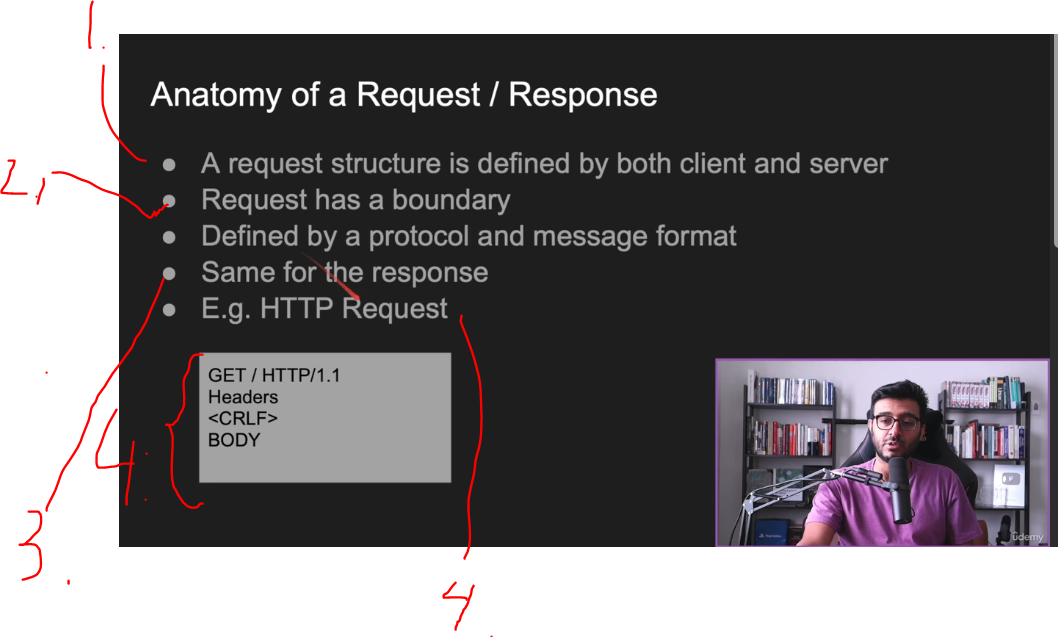
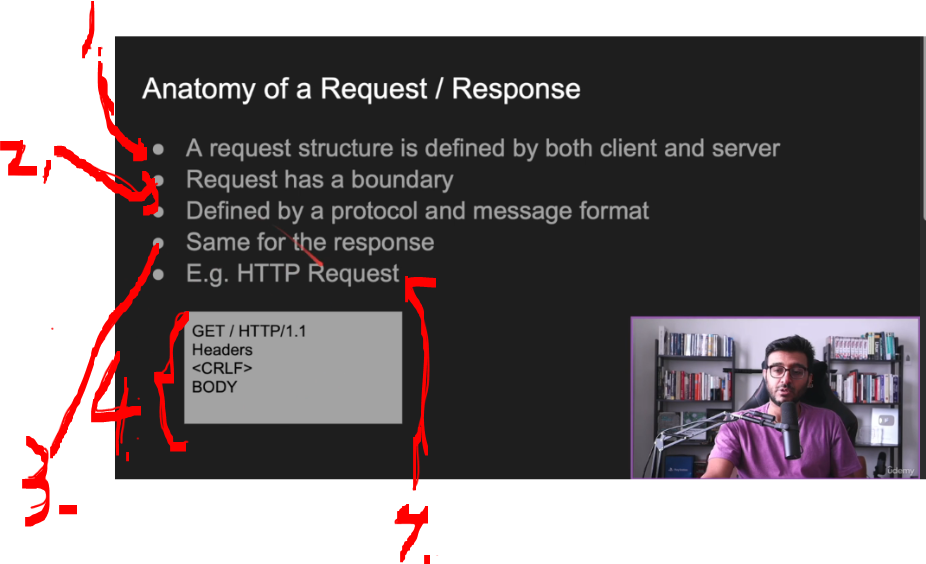
proceeded

Changed region(s): [[0.0, 0.0, 1.0, 0.9947], [0.4536, 0.9947, 0.4838, 1.0]]

diff --git a/Fundamentals of Backend Engineering/Section 02/README.md b/Fundamentals of Backend Engineering/Section 02/README.md
@@ -65,7 +65,7 @@ Backend Communication Design Patterns.
 1. We have to **agree** for the **request** and **response** format.
     - This has been already **agreed** by the **libraries**.
 2. Requests have boundaries.
-3. Example of the **message format** where **JSON** is parsed into to the **C++** **class object**!
+3. Example of the **message format** where **JSON** will be parsed into to the **C++** **class object**!
 4. **HTTP** request looks like such:
     ```XML
     Start Line
@@ -74,71 +74,104 @@ Backend Communication Design Patterns.
     Body
     ```
 
-- We have task to **build** upload image service!
+- Example we have task to **build** upload image service:
     
 > [!NOTE]
 > What would be the best **patter** to implement here?
 
 <div align="center">
-    <img alt="Backend course!" src="buildingUploadImageService.PNG" >
+    <img alt="Backend course!" src="Building_Upload_Image_Service.PNG" >
 </div>
-
 
 1. **Simplest** would be to use **request and response** pattern! 
     - Is to send **whole** file and send it to server.
-        - If the image will be ***big**.
+        - What if the image will be **big**.
 
 2. Other way is to make this image into **smaller parts**.
-    - Send **each** request, small chunk of the pic.
+    - Send **each** request, **small chunk** of the pic.
 
 - **Remember** this is still the same **request and response** style, but we can dictate this.
 
 <div align="center">
-    <img alt="Backend course!" src="doesNotWorkAnywhere.PNG" >
+    <img alt="Backend course!" src="Notification_It_Does_Not_Work_Anywhere.PNG" >
 </div>
 
-1. This style does not fit everywhere.
+1. This style does **not fit** everywhere!
     - Example in **Notification service**. I want to get notification when somebody just **logged in** or **uploaded video**
         - This is **not**, request and response.
             - Only backend knows, but not the client.
     - Example in **Chatting application**.
-        - Spamming the `did i get request`!
+        - Spamming the *did i get request?*
     - Example if the request is **very long**, there are better ways to deal with this.
 
 > [!IMPORTANT]  
-> All these can be solved by using some kind of design patter!
-
+> All kind of can be solved by using some kind of design patter!
 
 <div align="center">
-    <img alt="Backend course!" src="requestAndResponseHandshakes.PNG" >
+    <img alt="Backend course!" src="Request_And_Response_Handshakes.PNG" >
 </div>
 
 1. From sending of the **request** to the **response**.
+    - There is cost of processing!
 2. **Timeline**, so we can see how long it took for the **request** and **response**.
 3. There is **cost** for processing the response.
 
-- Example of the **curl** `curl -v --trace out.txt http://google.com`.
+> [!NOTE]  
+> **FLUSH**
+> To clear, empty, or force pending data/changes to be written or applied immediately!
+
+- Example of the **curl** `curl -v --trace out.txt http://google.com`. Example below:
+
+<div align="center">
+    <img alt="Backend course!" src="Curl_Processing.gif" >
+</div>
 
 # Synchronous vs Asynchronous workloads.  
 
 <div align="center">
-    <img alt="Backend course!" src="asynchronousOrsynchronous.PNG" width="500px" >
+    <img alt="Backend course!" src="Asynchronous_And_Arsynchronous_Intro.PNG" style="width:890px" >
 </div>
 
-- Async is the term is not in same wave length!
+- **Async** is the term is **not** in same wave length!
 
 <div align="center">
-    <img alt="Backend course!" src="SynchronoysIo.PNG" >
+    <img alt="Backend course!" src="Synchronous_IO.PNG" >
 </div>
 
-1. Once call is made, this gets block.
+1. The **traditional** way! Once call is made, the called is **blocked** this gets blocked, until its finished.
 
-- Todo continue this when needed.
+<div align="center">
+    <img alt="Backend course!" src="Example_Of_An_OS_Synchronous_IO.PNG" >
+</div>
+
+1. Program asks **OS** to read from disk.
+2. Program `main` thread is taken out of **CPU** until this is finished!
+3. Read **completes**, the program resumes!
+
+<div align="center">
+    <img alt="Backend course!" src="Asynchronous_IO.PNG" >
+</div>
+
+1. Asynchronous I/O flow:
+    - Caller **sends** a request.
+    - Caller **can work** until it gets a response.
+    - Caller **either** (*How can caller know if it got response or not?*):
+        - Checks if the response is ready (`epoll`).
+            - Caller can check if **result** is ready!
+                -  In **Linux** it's done with the `epoll`.
+        - Receiver calls back when it's done (`io_uring`).
+            - In **Linux** It's done with the `io_uring`.
+        - Spins up a new thread that blocks
+            - `Node.js` will spins up **new thread** to do the process.
+    - Caller and receiver are not necessary in **sync**.
+
+
+
 
 # Push.  
 
 <div align="center">
-    <img alt="Backend course!" src="push.PNG">
+    <img alt="Backend course!" src="Push_Model_Intro.PNG">
 </div>
 
 1. If you want to be fast as possible use, then you can think of using **PUSH**!
@@ -173,9 +206,8 @@ Backend Communication Design Patterns.
     - This **message** is **PUSHED** to all connected the **clients**!
 
 <div align="center">
-    <img alt="Backend course!" src="pushPlussesAndMinuses.PNG">
+    <img alt="Backend course!" src="Push_Model_Plusses_And_Minuses.PNG">
 </div>
-
 
 
 1. **Push** is based on the **real time**. On the moment data come to the input, we are going to **PUSH** it to clients. 
@@ -478,7 +510,7 @@ function updateJob(jobId, prg) {
 # Long Polling.  
 
 <div align="center">
-    <img alt="Backend course!" src="longPollingCaption.PNG">
+    <img alt="Backend course!" src="longPollingCaption.PNG" style="width:690px">
 </div>
 
 1. This will be the same **polling**, but it would answer when the **things** is ready!

diff --git a/README.md b/README.md
@@ -48,8 +48,9 @@ Linkedin puts this shit front, when clicking from private mode x(. Need to put t
     Add here the certifcate-
 </p>
 
-**Note: The material provided in this repository is only for helping those who may get stuck at any point of time in the course. It is very advised that no one should just copy the solutions(violation of Honor Code) presented here.**
+<br>
 
+**Note: The material provided in this repository is only for helping those who may get stuck at any point of time in the course. It is very advised that no one should just copy the solutions(violation of Honor Code) presented here.**
 
 - When importing folder, use the parent folder `Design Patterns in Java`, in **Eclipse** use `Existing project into workspace` import function.
 
@@ -58,7 +59,7 @@ Linkedin puts this shit front, when clicking from private mode x(. Need to put t
 - [x] [Section 01](https://github.com/developersCradle/designg-patterns-and-software-architecture/tree/main/Design%20Patterns%20in%20Java/src/Section%2001#section-1-introduction) - Introduction. ✅
 - [ ] [Section 02](https://github.com/developersCradle/designg-patterns-and-software-architecture/tree/main/Design%20Patterns%20in%20Java/src/Section%2002#section-2-solid-design-principles) - SOLID Design Principles.
 - [x] [Section 03](https://github.com/developersCradle/designg-patterns-and-software-architecture/tree/main/Design%20Patterns%20in%20Java/src/Section%2003#section-3-builders) - Builder. ✅
-- [ ] [Section 04](#) - Factories.
+- [ ] [Section 04](#) - Factories. ⚠️ In progress! ⚠️
 - [ ] [Section 05](#) - Prototype.
 - [ ] [Section 06](#) - Singleton.
 - [ ] [Section 07](#) - Adapter.
@@ -146,11 +147,13 @@ Linkedin puts this shit front, when clicking from private mode x(. Need to put t
    Insert certificate here when completed
 </p>
 
+<br>
+
 **Note: The material provided in this repository is only for helping those who may get stuck at any point of time in the course. It is very advised that no one should just copy the solutions(violation of Honor Code) presented here.**
 
 #### Progress/Curriculum.
 
-- [ ] [Section 01](#) - Getting Started.
+- [ ] [Section 01](#) - Getting Started. ⚠️ In progress! ⚠️
 - [ ] [Section 02](#) - Naming - Assigning Names to Variables, Functions, Classes & More.
 - [ ] [Section 03](#) - Code Structure, Comments & Formatting.
 - [ ] [Section 04](#) - Functions & Methods.
@@ -199,11 +202,13 @@ Linkedin puts this shit front, when clicking from private mode x(. Need to put t
    Insert certificate here when completed
 </p>
 
+<br>
+
 **Note: The material provided in this repository is only for helping those who may get stuck at any point of time in the course. It is very advised that no one should just copy the solutions(violation of Honor Code) presented here.**
 
 #### Progress/Curriculum.
 
-- [ ] [Section 01](#) - SOLID Design Principles.
+- [ ] [Section 01](#) - SOLID Design Principles. ⚠️ In progress! ⚠️
 - [ ] [Section 02](#) - Introduction.
 - [ ] [Section 03](#) - Creational Design Patterns.
 - [x] [Section 04](https://github.com/developersCradle/designg-patterns-and-software-architecture/tree/main/Java%20Design%20Patterns%20%26%20SOLID%20Design%20Principles/Section%2004#section-04-builder) - Builder. ✅
@@ -279,6 +284,7 @@ Linkedin puts this shit front, when clicking from private mode x(. Need to put t
     <img id="Microservices_Architecture_The_Complete_Guide_Certificate?trk=public_profile_see-credential" src="Microservices_Architecture_The_Complete_Guide_Certificate.jpg" alt="SOAP Web Services with Java_certificate" width="600"/>
 </p>
 
+<br>
 
 **Note: The material provided in this repository is only for helping those who may get stuck at any point of time in the course. It is very advised that no one should just copy the solutions(violation of Honor Code) presented here.**
 
@@ -343,14 +349,16 @@ Linkedin puts this shit front, when clicking from private mode x(. Need to put t
     Insert certificate here when completed
 </div>
 
+<br>
+
 **Note: The material provided in this repository is only for helping those who may get stuck at any point of time in the course. It is very advised that no one should just copy the solutions(violation of Honor Code) presented here.**
 
 #### Progress/Curriculum.
 
 - [x] [Section 01](https://github.com/developersCradle/designg-patterns-and-software-architecture/tree/main/Fundamentals%20of%20Backend%20Engineering/Section%2001#section-01-introduction) - Introduction. ✅
-- [ ] [Section 02](https://github.com/developersCradle/designg-patterns-and-software-architecture/tree/main/Fundamentals%20of%20Backend%20Engineering/Section%2002#section-02-backend-communication-design-patterns) - Backend Communication Design Patterns.
-- [ ] [Section 03](https://github.com/developersCradle/designg-patterns-and-software-architecture/blob/main/Fundamentals%20of%20Backend%20Engineering/Section%2003/README.md#section-03-protocols) - Protocols.
-- [ ] [Section 04](https://github.com/developersCradle/designg-patterns-and-software-architecture/blob/main/Fundamentals%20of%20Backend%20Engineering/Section%2004/README.md#section-04-many-ways-to-https) - Many ways to HTTPS.
+- [ ] [Section 02](https://github.com/developersCradle/designg-patterns-and-software-architecture/tree/main/Fundamentals%20of%20Backend%20Engineering/Section%2002#section-02-backend-communication-design-patterns) - Backend Communication Design Patterns. ⚠️ In progress! ⚠️
+- [ ] [Section 03](https://github.com/developersCradle/designg-patterns-and-software-architecture/blob/main/Fundamentals%20of%20Backend%20Engineering/Section%2003/README.md#section-03-protocols) - Protocols. ⚠️ In progress! ⚠️
+- [ ] [Section 04](https://github.com/developersCradle/designg-patterns-and-software-architecture/blob/main/Fundamentals%20of%20Backend%20Engineering/Section%2004/README.md#section-04-many-ways-to-https) - Many ways to HTTPS. ⚠️ In progress! ⚠️
 - [ ] [Section 05](https://github.com/developersCradle/designg-patterns-and-software-architecture/blob/main/Fundamentals%20of%20Backend%20Engineering/Section%2005/README.md#section-05-backend-execution-patterns) - Backend Execution Patterns.
 - [ ] [Section 06](https://github.com/developersCradle/designg-patterns-and-software-architecture/blob/main/Fundamentals%20of%20Backend%20Engineering/Section%2006/README.md#section-06-proxying-and-load-balancing) - Proxying and Load Balancing.
 - [ ] [Section 07](https://github.com/developersCradle/designg-patterns-and-software-architecture/blob/main/Fundamentals%20of%20Backend%20Engineering/Section%2007/README.md#section-07-extras) - Extras.
@@ -360,6 +368,7 @@ Linkedin puts this shit front, when clicking from private mode x(. Need to put t
 
 - [x] Do for now **Polling concept**! ✅
 - [ ] If in mood implement these in Java.
+    - https://medium.com/@varunpandey94.vp/long-polling-using-spring-boot-97fa4f8fb085
 - [ ] Check this one, if [time](https://www.youtube.com/watch?v=nEFOni_87Yw).
 - [ ] Remove for the `Archive` folder if not needed.
 
@@ -398,11 +407,13 @@ Linkedin puts this shit front, when clicking from private mode x(. Need to put t
     <!-- <img id="Microservices_Architecture_The_Complete_Guide_Certificate?trk=public_profile_see-credential" src="Microservices_Architecture_The_Complete_Guide_Certificate.jpg" alt="SOAP Web Services with Java_certificate" width="600"/> -->
 </p>
 
+<br>
+
 **Note: The material provided in this repository is only for helping those who may get stuck at any point of time in the course. It is very advised that no one should just copy the solutions(violation of Honor Code) presented here.**
 
 #### Progress/Curriculum.
 
-- [x] [Section 01](#) - Welcome. ✔️
+- [x] [Section 01](#) - Welcome. ⚠️ In progress! ⚠️
 
 #### Additional stuff.
 